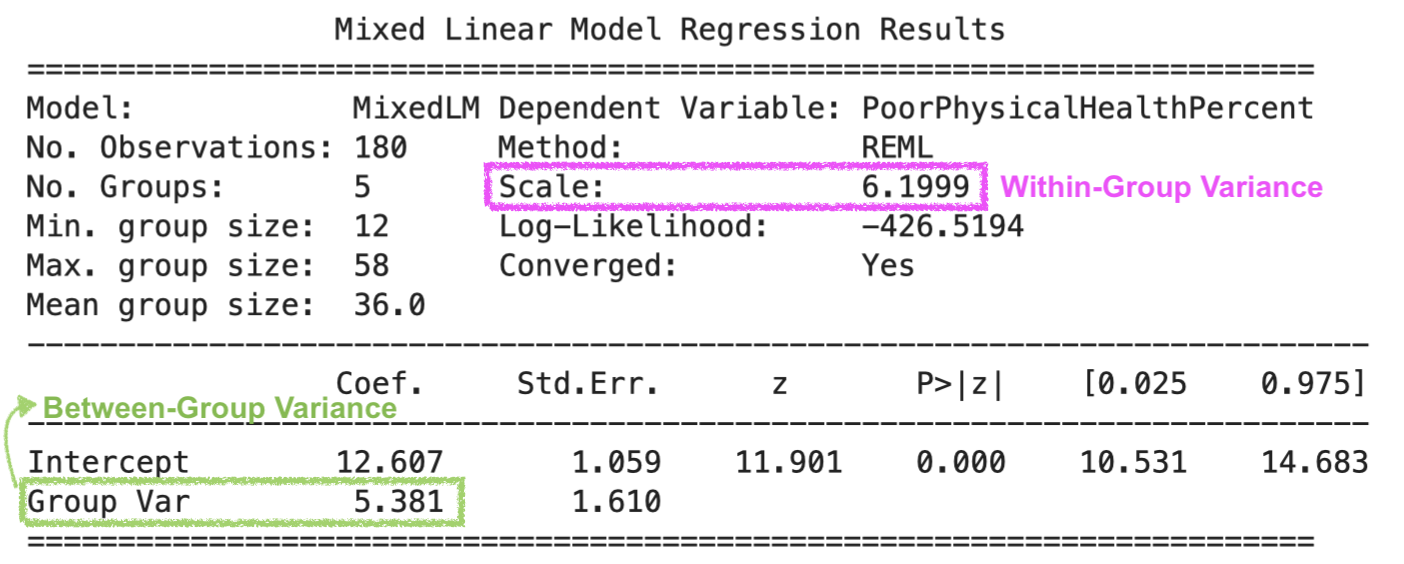
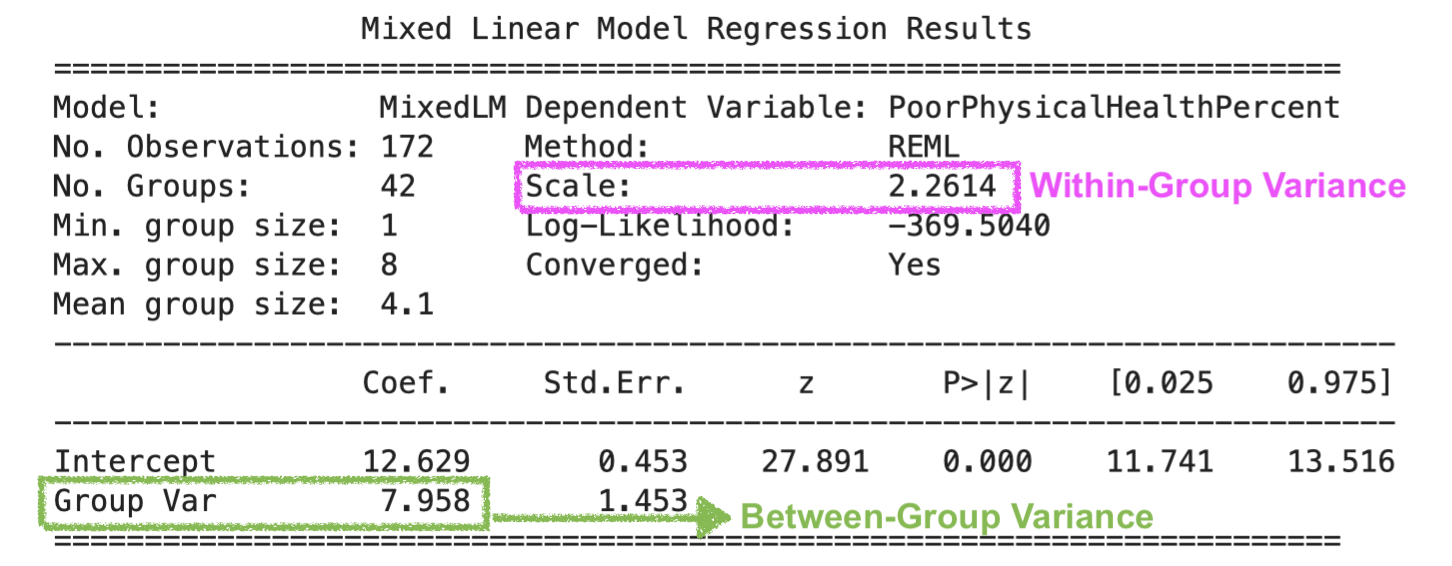
Edit images

diff --git a/index.md b/index.md
@@ -10,6 +10,9 @@ Similarly, students from the same school or neighborhoods may perform more simil
 ![data_hierarchy](assets/images/data_hierarchy.png)
 <br>
 <br>
+It is also possible to construct a three-level model where Level 1 is areas of each zip code, Level 2 is neighborhoods, and Level 3 is boroughs. The illustration below uses "UHF42 neighborhoods," which are a set of 42 defined community areas in New York City, created by the NYC Department of Health and Mental Hygiene and the United Hospital Fund (UHF) for health research and planning.<br>
+<br>
+![three_level_structure](assets/images/three_level_structure.png)
 
 # Why use multilevel models?
 1. Nested data **violate key assumptions** of Ordinary Least Squares (OLS) in linear regression, because: <br>
@@ -31,24 +34,25 @@ Similarly, students from the same school or neighborhoods may perform more simil
 <br>
 
 # The research question and rationale 
-Are Heat Vulnerability Index (HVI) and poor mental health related to the physical health of adults residing in New York City? Do those relationships differ depending on the borough? <br>
+Are Heat Vulnerability Index (HVI) and poor mental health related to the physical health of adults residing in New York City? Do those relationships differ depending on the neiborhood? <br>
 
-In light of climate change, some areas are more vulnerable to extreme heat than others, such as urban areas with high impervious surfaces, less green and shady surfaces, fewer socioeconomic resources, and a larger population that are disproportionately impacted by heat (e.g., older adults, outdoor workers, and those with lower income). <br>
+In light of climate change, some neighborhoods are more vulnerable to extreme heat than others, such as urban areas with high impervious surfaces, less green and shady surfaces, fewer socioeconomic resources, and a larger population that are disproportionately impacted by heat (e.g., older adults, outdoor workers, and those with lower income). <br>
 
 It is often observed that areas in close spatial proximity tend to share similar characteristics, thus forming "clusters/groups" and motivating researchers to conduct multilevel regressions to investigate both the within-group and between-group effects of risk factors on health outcome. <br>
 <br>
 <br>
 
 # Health outcome, predictors, model structure, and datasets
-In this study, the **health outcome** (Y) is the percentage of adults with **poor physical health** residing in a given zip code, while the two **predictors** (X's) are averaged **HVI** by zip code and the **poverty rate** of each borough, both of which exhibit a hierarchical data structure in the sense that each zip code belongs to one of the five boroughs.<br>
+In this study, the **health outcome** (Y) is the percentage of adults with **poor physical health** residing in a given zip code, while the two **predictors** (X's) are averaged **HVI** by zip code and the percentage of residents aged **65 and older** of each UHF neighborhood, both of which exhibit a hierarchical data structure in the sense that each zip code belongs to one of the five boroughs.<br>
 <br>
-In multilevel models, **Level 1** predictors are those that vary within a group (in this study, averaged **HVI** by zip code), whereas **Level 2** variables are characteristics of the group (in this study, the **poverty rate** of each borough).<br>
+In multilevel models, **Level 1** predictors are those that vary within a group (in this study, averaged **HVI** by zip code), whereas **Level 2** variables are characteristics of the group (in this study, the **percentage of residents aged 65 and older** of each UHF42 neighborhood).<br>
 <br>
-This analysis will use four datasets that have been extracted from their linked sources and preprocessed: <br>
+This analysis will use five datasets that have been extracted from their linked sources and preprocessed: <br>
 * [Health Outcomes by Zip Code](https://datacommons.org/place/geoId/3651000?category=Health)<br>
 * [Averaged Heat Vulnerability (HVI) by Zip Cod](https://a816-dohbesp.nyc.gov/IndicatorPublic/data-features/hvi/)<br>
 * [Risk Factors by Zip Code](https://simplemaps.com/city/new-york/zips/age-median)<br>
 * [Risk Factors by Borough](https://furmancenter.org/stateofthecity/view/citywide-and-borough-data)<br> 
+* [UHF42 Neighborhood Codes](https://www.nyc.gov/assets/doh/downloads/pdf/ah/zipcodetable.pdf)
 <br>
 <br>
 
@@ -57,25 +61,25 @@ It is always a good idea to visualize the data before modeling to identify patte
 <br>
 In this study, an **outlier** (zip code 11005) was detected because of its extremely high median age of residents (80.6 years old). Upon further investigation, zip code 11005 contains only one senior center. This data point was removed from the analysis dataset as a result.<br>
 <br>
-The following unicolor scatter plot indicates a **positive** relationship between averaged **HVI** and **poor physical health**, while the multicolor scatter plot further reveals **clusters** of data points by borough. <br>
+The following unicolor scatter plot indicates a **positive** relationship between averaged **HVI** and **poor physical health**, while the multicolor scatter plot further reveals **clusters** of data points at the borough level. <br>
 <br>
 
  ![HVI_scatterplots](assets/images/HVI_scatterplots.png)
 <br>
 <br>
-Similarly, the unicolor scatter plot below shows a **positive** relationship between **poverty rate** and **poor physical health**. There is a "clustering effect" by default, as all zip codes from the same borough share the same poverty rate.<br>
+Interestingly, the unicolor scatter plot below shows a negative relationship between percentage of **residents aged 65 and older** and **poor physical health**, which is contrary to what one might expect. There is a "clustering effect" by default, as all zip codes from the same borough share the percentage of residents aged 65 and older.<br>
 <br>
-![Poverty_scatterplots](assets/images/Poverty_scatterplots.png)
+![percentage65plus](assets/images/percentage65plus_scatterplots.png)
 <br>
 <br>
 Conducting an OLS linear regression on the entire dataset, one would estimate a single y-intercept and slope for the effect of HVI on poor physical health for *all* residents of NYC, regardless of their borough of residence. However, when the same regression is conducted separately for each borough, five district y-intercepts and slopes emerge, supporting the use of a multilevel model.<br>
 <br>
-![HVI_regression_lines](assets/images/HIV_regression_lines.png)
+![HVI_regression_lines](assets/images/HVI_regression_lines.png)
 <br>
 <br>
 
 # Data Analysis
-From data visualization, it appears that there are five distict y-intercepts and slopes; however, are their differences statistically significant? In other words, is there a standardized measurement we can use to justify using a multilevel model? <br>
+Visualization is an intuitive way to get the big picture (pun intended) of our data, but there a standardized measurement we can use to justify using a multilevel model. The measurement is called "intraclass correlation coefficient," or ICC for short. <br>
 <br>
 
 ## Intraclass correlation coefficient (ICC) 
@@ -83,11 +87,11 @@ Intraclass correlation coefficient (ICC) is a statistic that measures how strong
 <br>
 **ICC = Between-Group Variance / (Between-Group Variance + Within-Group Variance)**<br>
 <br>
-- When ICC = 1, there is no variance within the groups, meaning all variance comes from between groups. In contrast.<br>
+- When ICC = 0, there is no variance within the groups, meaning all variance comes from between groups. In contrast.<br>
 <br>
 - When ICC = 1, the varaiance between groups is zero, indicating "all groups are similar," which means the dataset contains no distinct grouping.<br>
 <br>
-- When 0 < ICC < 1, it tells the degree of between-group differences. For example, an ICC of 0.46 means that 46% of total variance is due to differences between the groups. <br>
+- When 0 < ICC < 1, it tells the degree of between-group differences. For example, an ICC of 0.78 means that 78% of total variance is due to differences between the groups. <br>
 <br>
 
 ## The null model
@@ -97,20 +101,20 @@ In regression, a null model is usually the simplest possible model involving onl
 <br> 
 First load the necessary libraries--the model we want to use is **mixed linear model**, or ***mixedlm***, from the ***statsmodel*** library.<br>
 <br>
-Specify the null model, fit the model, and then print out the results.
+Specify the null model, fit the model, and then print out the results. For our study, we will be conducting a two-level mixed linear regression, where the Level 2 groups are **UHF42** neighborhoods.<br>
 <br>
 ```
 import statsmodels.api as sm
 import statsmodels.formula.api as smf 
 
-null_model = smf.mixedlm("PoorPhysicalHealthPercent ~ 1", data=analysis_df, groups=analysis_df["Borough"])
+null_model = smf.mixedlm("PoorPhysicalHealthPercent ~ 1", data=analysis_df, groups=analysis_df["UHF42"])
+
 
 results_null = null_model.fit()
 print(results_null.summary())
 
 ```
 
-<br>
 <br>
 
 ![null_model_results](assets/images/null_model_results.png)
@@ -119,7 +123,15 @@ print(results_null.summary())
 
 Using the **Between-Group Variance** and the **Within-Group Variance** estimated by the model, we can now calculate the ICC: <br>
 
-**ICC = 5.381 / (5.381 + 6.1999) = 0.46**<br>
+**ICC** = Between-Group Variance / (Between-Group Variance + Within-Group Variance)<br>
+= 7.958 /(7.958 +2.2614) = **0.78**<br>
 <br>
-
-
+<br>
+## Cluster-mean centering
+Centering the averaged HVI is necessary, because the index ranges from 1 to 5. Without centering averaged HVI, the y-intercept would represent the average percentage of adults with poor physical health when HVI is 0, which is not a valid index value. <br>
+<br>
+Other reasons for centering are to reduce multicollinearity and to simplify interpretations when interaction terms are included in the model.<br>
+<br>
+There are two options for centering in multilevel models, namely, grand-mean centering and cluster-mean centering. Since we are interested in the Level 2 predictor, **cluster-mean centering** is chosen because it gives an unbiased estimate of the within cluster effect and produces better estimates of the slope variance.<br>
+<br>
+## Two-level model specification
